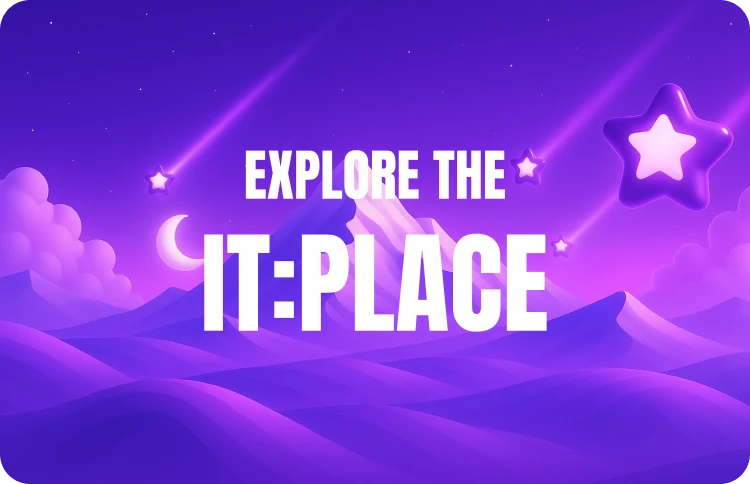
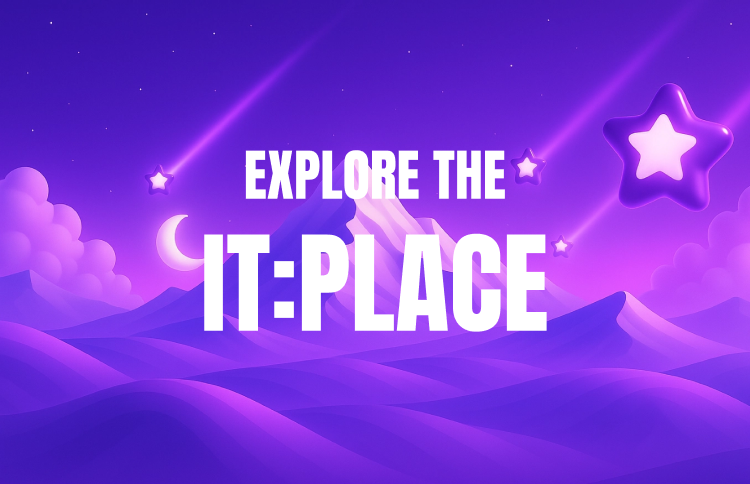
refactor: project 커버 이미지 변경

diff --git a/src/app/projects/components/ProjectCard.tsx b/src/app/projects/components/ProjectCard.tsx
@@ -23,7 +23,9 @@ export default function ProjectCard({
             alt={cover.alt || title}
             fill
             className="object-cover transform-gpu will-change-transform transition-transform duration-500 ease-[cubic-bezier(.5,.8,.2,1)] hover:scale-105"
-            sizes="(min-width:1024px) 33vw, (min-width:768px) 50vw, 100vw"
+            sizes="(min-width:1280px) 380px,
+                   (min-width:1024px) 300px,
+                   (min-width:768px) 328px, calc(100vw-40px)"
             priority={priority} // 첫 카드만 true
           />
         </div>

diff --git a/src/app/projects/data/project.ts b/src/app/projects/data/project.ts
@@ -122,7 +122,7 @@ export const projects: Record<string, Project> = {
   umate: {
     slug: "umate",
     cover: {
-      src: "/projects/umate/u_mate-cover.webp",
+      src: "/projects/umate/u_mate-cover-2.webp",
       alt: "유메이트 커버 이미지",
     },
     title: "U: mate",
